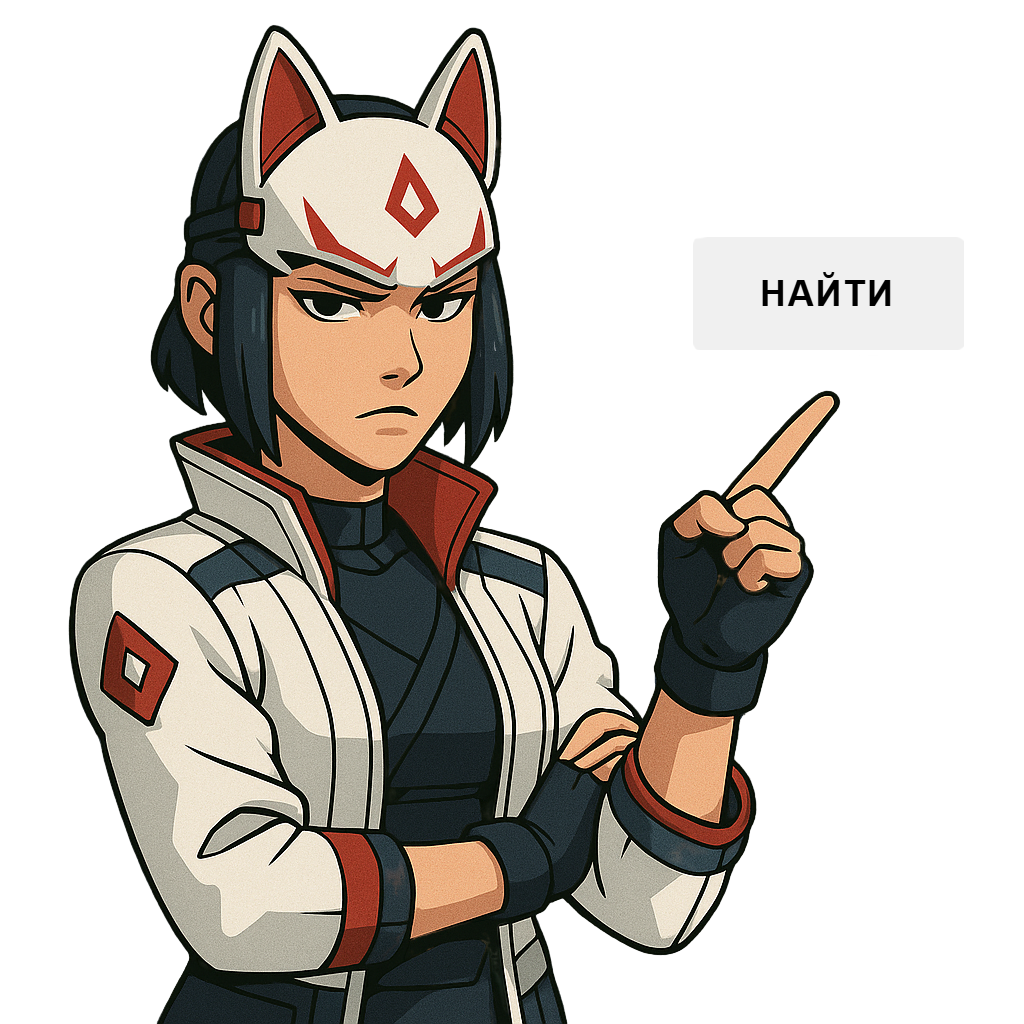
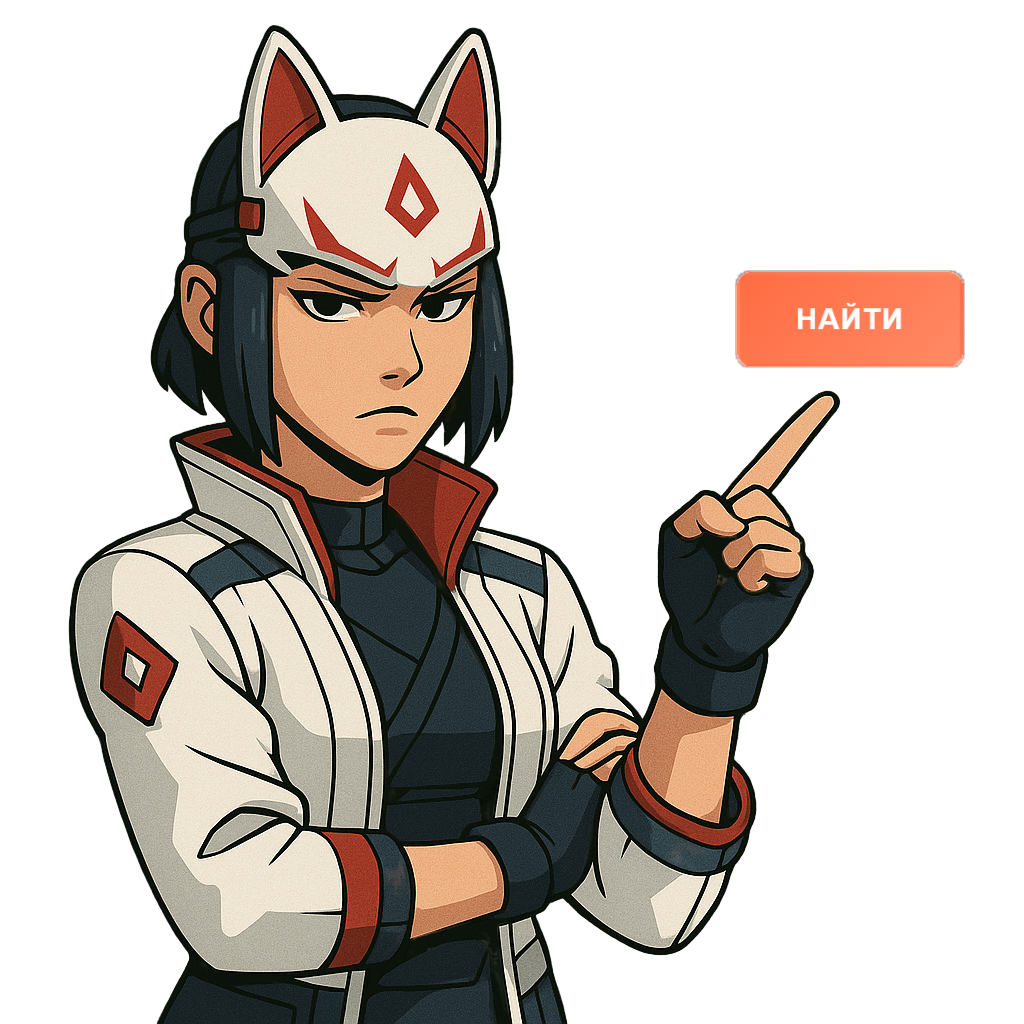
Search btn

Changed region(s): [[0.7188, 0.25, 0.9688, 0.375]]

diff --git a/style.css b/style.css
@@ -251,7 +251,16 @@ header img {
     position: relative;
     overflow: hidden;
     border: 2px solid transparent;
+}
+
+.search {
     margin-bottom: 25px;
+    background: linear-gradient(135deg, var(--primary-color), #ff8a65);
+    color: white;
+}
+
+.search:hover {
+    transform: scale(1.1);
 }
 
 .sort-arrow {
